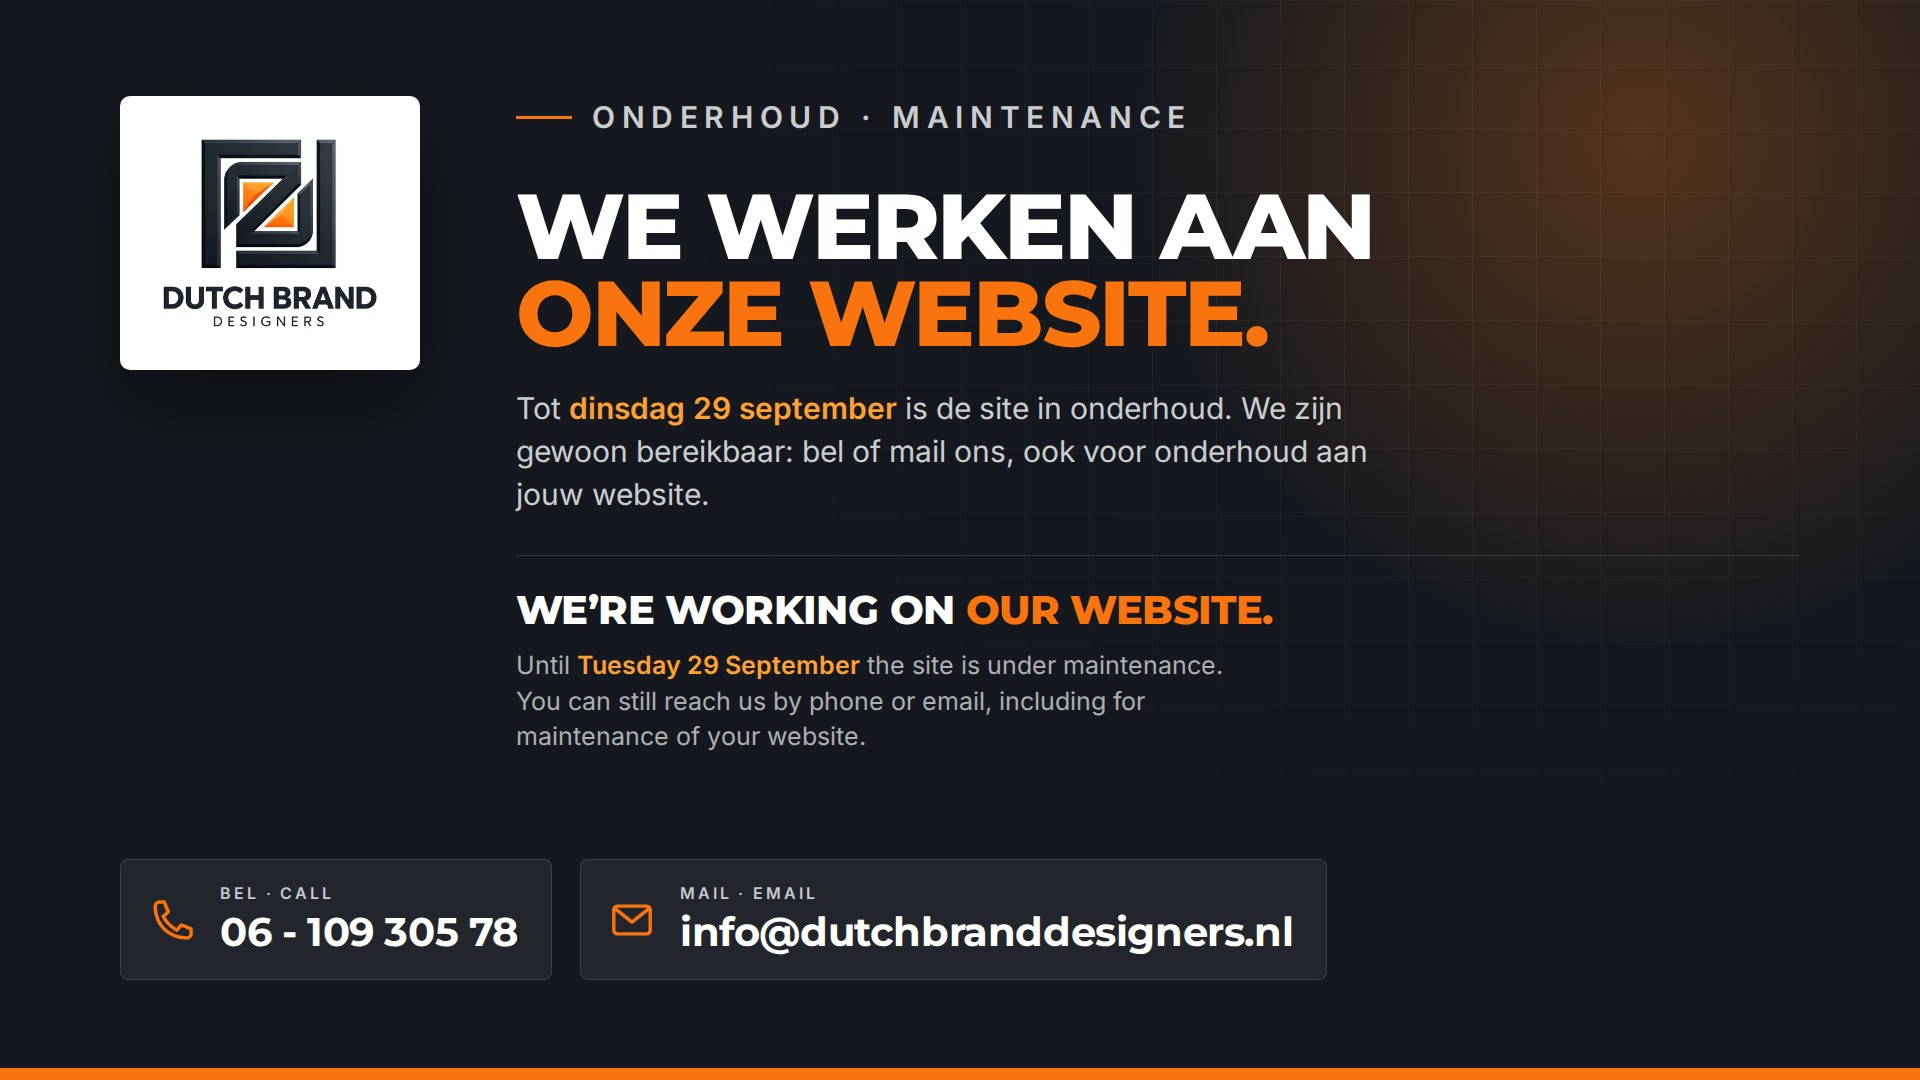
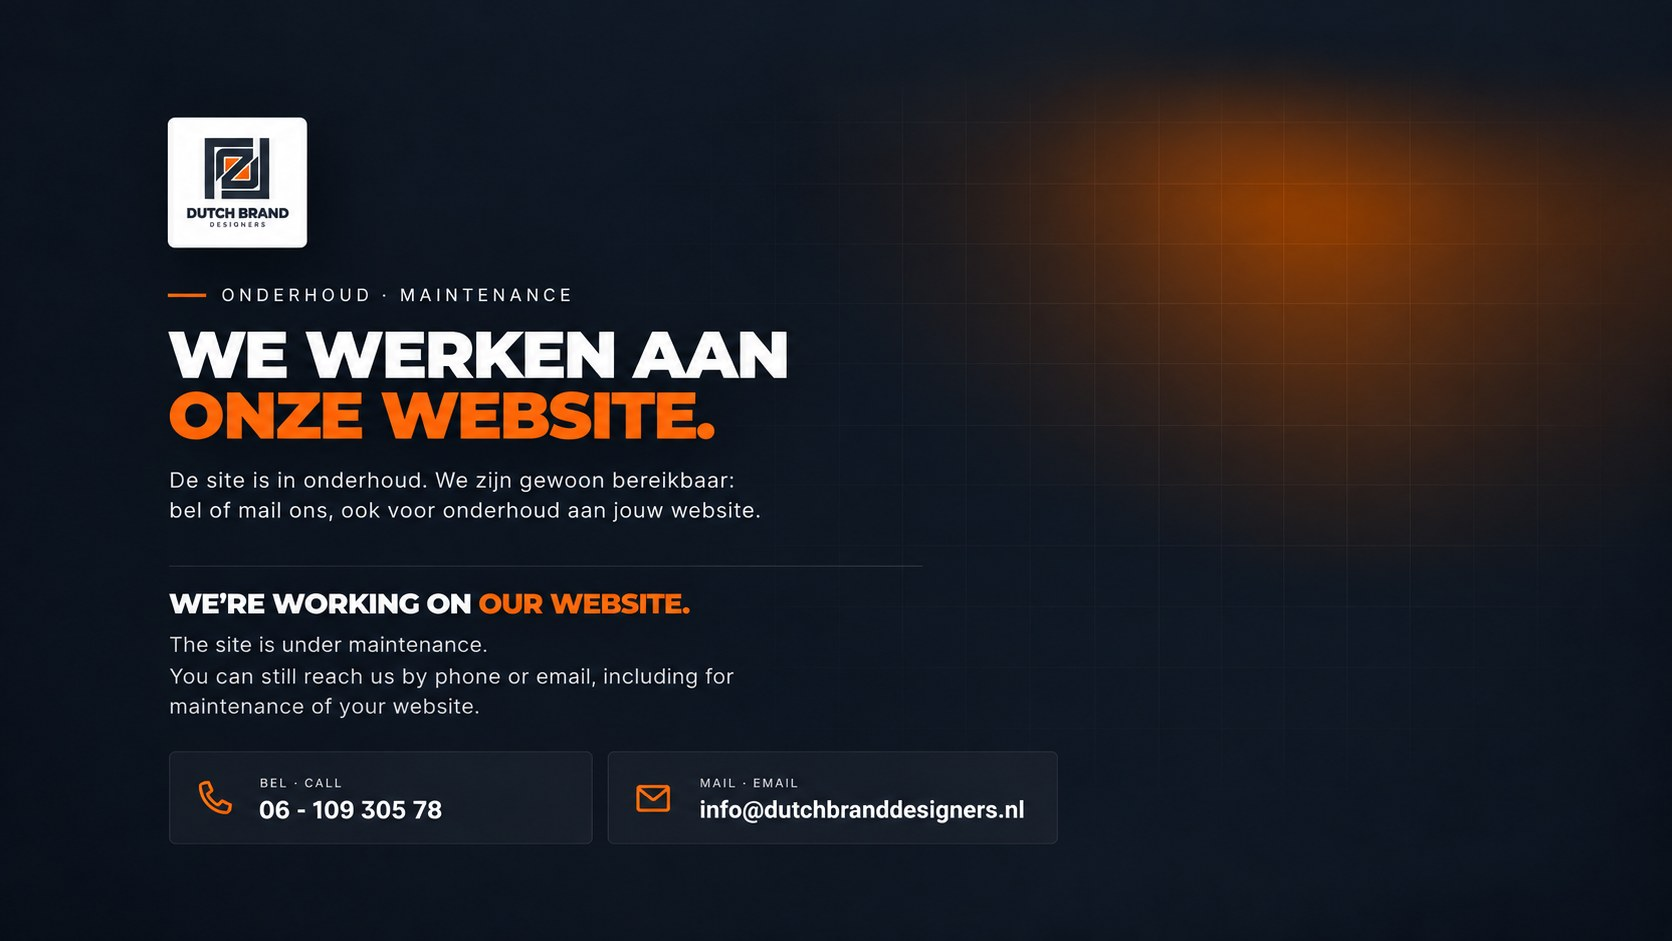
Replace maintenance artwork with new desktop and mobile designs
- New desktop (1672x941) and mobile (941x1672) images, converted to JPG
- Update image dimensions, background color and contact-card hotspots
- Drop the orange bottom bar styling (not in the new artwork)
- Fade letterbox/pillarbox edges for the new aspect ratios
- Update alt text and meta description to match the new copy

Claude-Session: https://claude.ai/code/session_01Mkd8ePEGypwiLD6FysTiQq

diff --git a/public/maintenance.css b/public/maintenance.css
@@ -1,14 +1,13 @@
 /* Maintenance page: the artwork is scaled to fit the viewport without
    cropping; the page background continues the artwork's edges. */
 :root {
-  --ink: #15181f;     /* artwork background */
-  --orange: #f9740f;  /* artwork bottom bar */
-  --w: 1920;          /* artwork size in px */
-  --h: 1080;
-  --bar: 12;          /* bottom bar height in px */
+  --ink: #0e1622;     /* artwork background */
+  --orange: #f9740f;  /* focus ring */
+  --w: 1672;          /* artwork size in px */
+  --h: 941;
 }
 @media (max-aspect-ratio: 6/5) {
-  :root { --w: 1080; --h: 1350; }
+  :root { --w: 941; --h: 1672; }
 }
 * { box-sizing: border-box; }
 html, body { margin: 0; height: 100%; }
@@ -16,16 +15,13 @@ body {
   min-height: 100vh;
   min-height: 100dvh;
   background-color: var(--ink);
-  background-image: linear-gradient(var(--orange), var(--orange));
-  background-repeat: no-repeat;
-  background-position: left bottom;
-  /* bar scaled like the artwork, so it lines up with the image's own bar */
-  background-size: 100% min(calc(100vw * var(--bar) / var(--w)), calc(100dvh * var(--bar) / var(--h)));
+  /* the artwork darkens slightly toward the bottom; match it around the edges */
+  background-image: linear-gradient(#0d1520, #08101a);
   overflow: hidden;
 }
 .maintenance {
   display: flex;
-  align-items: flex-end;
+  align-items: center;
   justify-content: center;
   height: 100vh;
   height: 100dvh;
@@ -36,30 +32,25 @@ body {
   aspect-ratio: var(--w) / var(--h);
 }
 .frame img { display: block; width: 100%; height: 100%; }
-/* Portrait: center the artwork vertically. The page's bar stays at the
-   bottom of the viewport, so clip the artwork's own bar off. */
-@media (max-aspect-ratio: 6/5) {
-  .maintenance { align-items: center; }
-  .frame img { clip-path: inset(0 0 calc(100% * var(--bar) / var(--h)) 0); }
-}
-/* The artwork's top-right glow would end in a hard edge where the page
-   background shows around it, so fade that edge out when it isn't flush. */
-@media (6/5 < aspect-ratio < 16/9), (aspect-ratio < 4/5) {
+/* The artwork's glow and shading would end in a hard edge where the page
+   background shows around it, so fade those edges out when they aren't flush. */
+@media (6/5 < aspect-ratio < 16/9), (aspect-ratio < 9/16) {
   .frame img {
-    /* only the right-hand side, where the glow is; keep the logo tile crisp */
-    -webkit-mask-image: linear-gradient(to bottom, transparent, #000 12%), linear-gradient(to right, #000 35%, transparent 60%);
-    mask-image: linear-gradient(to bottom, transparent, #000 12%), linear-gradient(to right, #000 35%, transparent 60%);
+    /* top and bottom edges only; the content sits well inside them */
+    -webkit-mask-image: linear-gradient(to bottom, transparent, #000 8%, #000 92%, transparent);
+    mask-image: linear-gradient(to bottom, transparent, #000 8%, #000 92%, transparent);
   }
 }
-@media (aspect-ratio > 16/9), (4/5 < aspect-ratio <= 6/5) {
-  .frame img { -webkit-mask-image: linear-gradient(to left, transparent, #000 15%); mask-image: linear-gradient(to left, transparent, #000 15%); }
+@media (aspect-ratio > 16/9), (9/16 < aspect-ratio <= 6/5) {
+  /* right edge only, where the glow is; stops short of the contact cards */
+  .frame img { -webkit-mask-image: linear-gradient(to left, transparent, #000 7%); mask-image: linear-gradient(to left, transparent, #000 7%); }
 }
 .hit { position: absolute; border-radius: 1%; }
 .hit:focus-visible { outline: 3px solid var(--orange); outline-offset: 2px; }
 /* contact cards, positioned in % of the artwork */
-.hit-phone { left: 6.25%;  top: 79.5%; width: 22.5%;  height: 11.2%; }
-.hit-mail  { left: 30.2%;  top: 79.5%; width: 38.9%;  height: 11.2%; }
+.hit-phone { left: 10.1%; top: 79.8%; width: 25.3%; height: 9.8%; }
+.hit-mail  { left: 36.4%; top: 79.8%; width: 26.9%; height: 9.8%; }
 @media (max-aspect-ratio: 6/5) {
-  .hit-phone { left: 7%; top: 75.3%; width: 86%; height: 8.6%; }
-  .hit-mail  { left: 7%; top: 85.2%; width: 86%; height: 8.6%; }
+  .hit-phone { left: 8%; top: 70.6%; width: 84%; height: 8.6%; }
+  .hit-mail  { left: 8%; top: 80.7%; width: 84%; height: 8.6%; }
 }

diff --git a/public/index.html b/public/index.html
@@ -4,8 +4,8 @@
 <meta charset="utf-8">
 <meta name="viewport" content="width=device-width, initial-scale=1, viewport-fit=cover">
 <title>Dutch Brand Designers — Onderhoud</title>
-<meta name="description" content="We werken aan onze website. Tot dinsdag 29 september is de site in onderhoud.">
-<meta name="theme-color" content="#15181f">
+<meta name="description" content="We werken aan onze website. De site is in onderhoud; bel of mail ons, ook voor onderhoud aan jouw website.">
+<meta name="theme-color" content="#0e1622">
 <link rel="preload" as="image" href="/assets/images/maintenance-desktop.jpg" media="(min-aspect-ratio: 6/5)">
 <link rel="preload" as="image" href="/assets/images/maintenance-mobile.jpg" media="(max-aspect-ratio: 6/5)">
 <link rel="stylesheet" href="/maintenance.css">
@@ -14,9 +14,9 @@
 <main class="maintenance">
   <div class="frame">
     <picture>
-      <source media="(max-aspect-ratio: 6/5)" srcset="/assets/images/maintenance-mobile.jpg" width="1080" height="1350">
-      <img src="/assets/images/maintenance-desktop.jpg" width="1920" height="1080"
-           alt="Dutch Brand Designers — We werken aan onze website. Tot dinsdag 29 september is de site in onderhoud. We're working on our website. Until Tuesday 29 September the site is under maintenance.">
+      <source media="(max-aspect-ratio: 6/5)" srcset="/assets/images/maintenance-mobile.jpg" width="941" height="1672">
+      <img src="/assets/images/maintenance-desktop.jpg" width="1672" height="941"
+           alt="Dutch Brand Designers — We werken aan onze website. De site is in onderhoud; bel of mail ons, ook voor onderhoud aan jouw website. We're working on our website. The site is under maintenance; you can still reach us by phone or email, including for maintenance of your website.">
     </picture>
     <a class="hit hit-phone" href="tel:+31610930578" aria-label="Bel 06 - 109 305 78"></a>
     <a class="hit hit-mail" href="mailto:info@dutchbranddesigners.nl" aria-label="Mail info@dutchbranddesigners.nl"></a>
